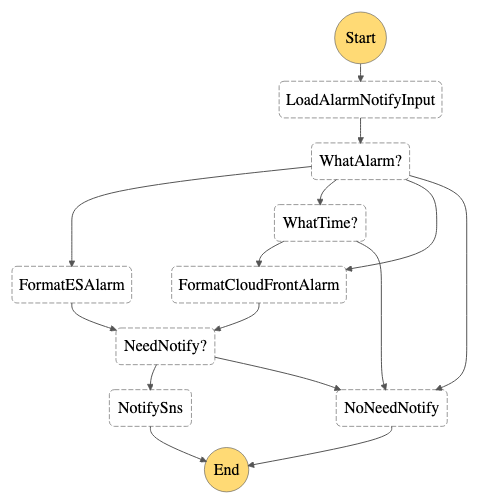
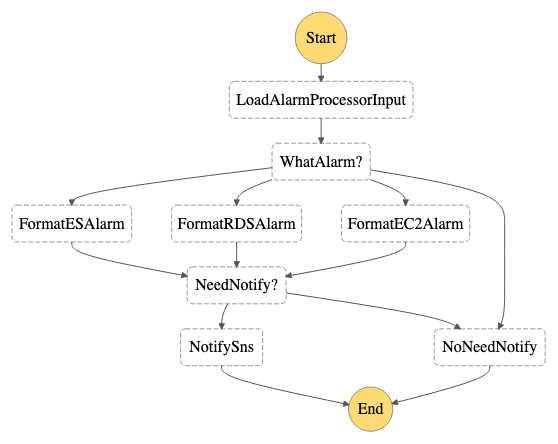
Add RDS alarms

diff --git a/RDSProvision/CreateRDSAlarms/app.py b/RDSProvision/CreateRDSAlarms/app.py
@@ -163,4 +163,42 @@ def lambda_handler(event, context):
         Tags=[]
     )
     print(f'Response: {response}')
+    response = client.put_metric_alarm(
+        AlarmName=f'RDS-{dbInstanceIdentifier}-High-CPUUtilization-Alarm',
+        ActionsEnabled=False,
+        MetricName='CPUUtilization',
+        Namespace='AWS/RDS',
+        Statistic='Average',
+        Dimensions=[{
+            'Name': 'DBInstanceIdentifier',
+            'Value': dbInstanceIdentifier
+        }],
+        Period=60,
+        EvaluationPeriods=1,
+        DatapointsToAlarm=1,
+        Threshold=75,
+        ComparisonOperator='GreaterThanOrEqualToThreshold',
+        TreatMissingData='missing',
+        Tags=[]
+    )
+    print(f'Response: {response}')
+    response = client.put_metric_alarm(
+        AlarmName=f'RDS-{dbInstanceIdentifier}-High-SwapUsage-Alarm',
+        ActionsEnabled=False,
+        MetricName='SwapUsage',
+        Namespace='AWS/RDS',
+        Statistic='Average',
+        Dimensions=[{
+            'Name': 'DBInstanceIdentifier',
+            'Value': dbInstanceIdentifier
+        }],
+        Period=60,
+        EvaluationPeriods=1,
+        DatapointsToAlarm=1,
+        Threshold=100*1024*1024,
+        ComparisonOperator='GreaterThanOrEqualToThreshold',
+        TreatMissingData='missing',
+        Tags=[]
+    )
+    print(f'Response: {response}')
     return event

diff --git a/AlarmProcessor/FormatRDSAlarm/app.py b/AlarmProcessor/FormatRDSAlarm/app.py
@@ -14,6 +14,24 @@ def lambda_handler(event, context):
     alarmValue = event["alarmValue"]
     dbInstance = event["metrics"][0]["metricStat"]["metric"]["dimensions"]["DBInstanceIdentifier"]
     message = None
+    if 'High-CPUUtilization-Alarm' in alarmName:
+        message = f'''时间: {timestamp}
+AWS帐号：{account}
+AWS区域：{region}
+资源类型：RDS实例
+资源名称：{dbInstance}
+事件：CPU利用率过高
+详情：{event["reason"]}
+'''
+    if 'High-SwapUsage-Alarm' in alarmName:
+        message = f'''时间: {timestamp}
+AWS帐号：{account}
+AWS区域：{region}
+资源类型：RDS实例
+资源名称：{dbInstance}
+事件：交换分区使用量上涨，表示内存可能不足
+详情：{event["reason"]}
+'''    
     if 'Low-EBSIOBalance-Alarm' in alarmName:
         message = f'''时间: {timestamp}
 AWS帐号：{account}

diff --git a/RDSProvision/LoadRDSProvisionInput/app.py b/RDSProvision/LoadRDSProvisionInput/app.py
@@ -9,6 +9,9 @@ def lambda_handler(event, context):
     if eventId == 'RDS-EVENT-0005':
         operation = 'created'
         dbInstanceIdentifier = event.get('detail').get('SourceIdentifier').split(':')[-1] 
+    if eventId == 'RDS-EVENT-0043':
+        operation = 'restored'
+        dbInstanceIdentifier = event.get('detail').get('SourceIdentifier').split(':')[-1]
     if eventId == 'RDS-EVENT-0003':
         operation = 'deleted'
         dbInstanceIdentifier = event.get('detail').get('SourceIdentifier').split(':')[-1]
